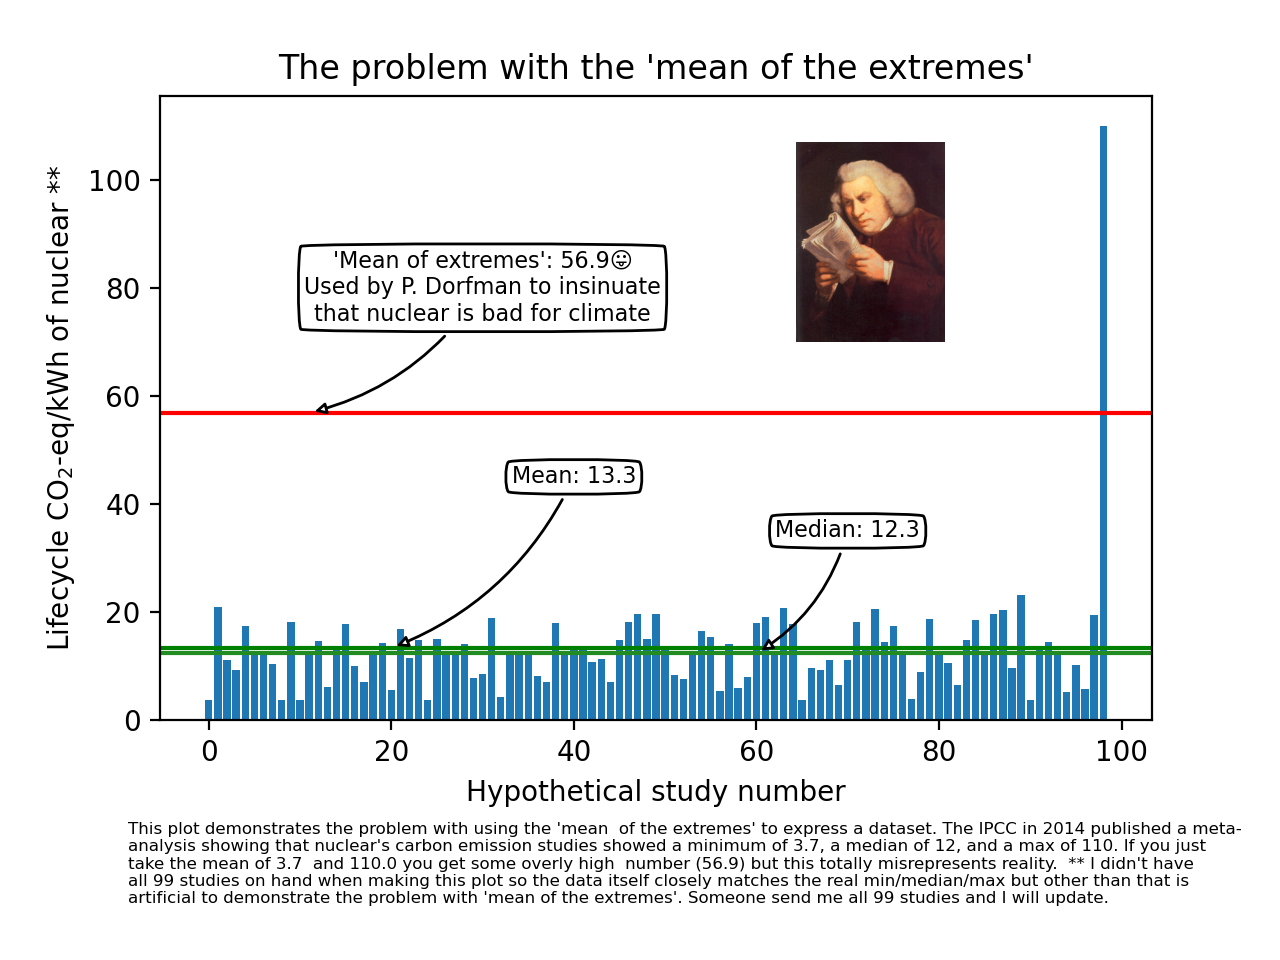
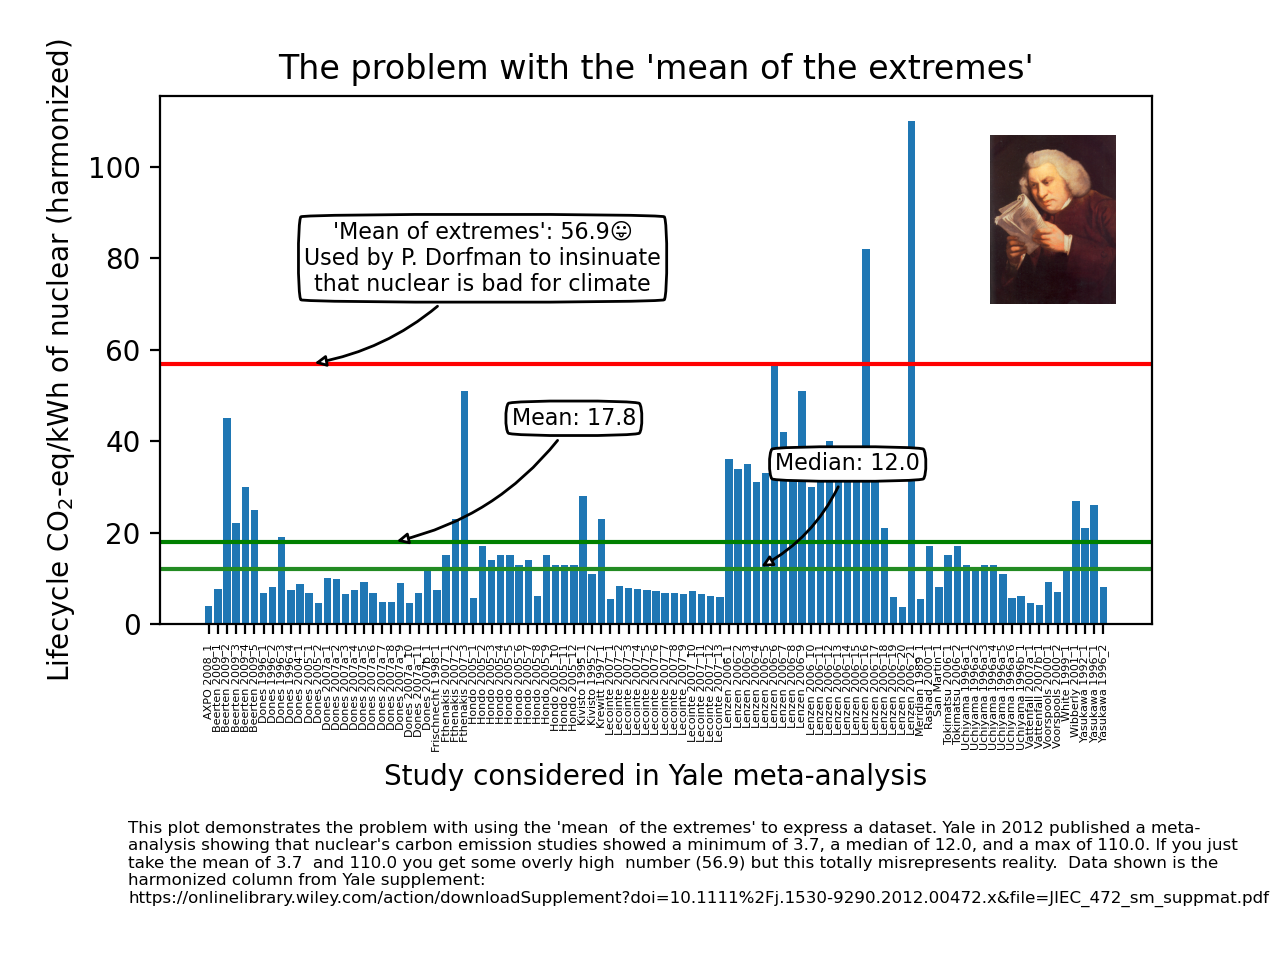
Updated mean of extremes example with actual data
Data comes from supplemental data table here:

https://onlinelibrary.wiley.com/action/downloadSupplement?doi=10.1111%2Fj.1530-9290.2012.00472.x&file=JIEC_472_sm_suppmat.pdf

which is associated with the main paper: https://doi.org/10.1111/j.1530-9290.2012.00472.x

Changed region(s): [[0.0312, 0.0312, 0.9688, 0.9375]]

diff --git a/plots/mean-of-extremes/mean-of-extremes.py b/plots/mean-of-extremes/mean-of-extremes.py
@@ -3,91 +3,124 @@ import matplotlib.pyplot as plt
 
 import numpy as np
 
-bounds = [3.7, 12,110]
 
-mu, sigma = bounds[1], 5
+def generateData():
+    bounds = [3.7, 12,110]
 
-vals = [bounds[0]]+ list(np.random.normal(mu,sigma, 97)) + [bounds[2]]
+    mu, sigma = bounds[1], 5
 
-vals = [bounds[0] if v<bounds[0] else v for v in vals]
-vals = [bounds[2] if v>bounds[2] else v for v in vals]
+    vals = [bounds[0]]+ list(np.random.normal(mu,sigma, 97)) + [bounds[2]]
 
-mean = np.mean(vals)
-median = np.median(vals)
-mean_extreme =( min(vals) + max(vals)) /2.0
+    vals = [bounds[0] if v<bounds[0] else v for v in vals]
+    vals = [bounds[2] if v>bounds[2] else v for v in vals]
+    
+    return range(len(vals)), vals
 
-fig, ax = plt.subplots(dpi=200)
+def plot(labels, vals):
 
-ax.bar(range(len(vals)), vals)
+    maxData = max(vals)
+    minData = min(vals)
 
-ax.axhline(y=mean, color="green")
-ax.axhline(y=median, color="forestgreen")
-ax.axhline(y=mean_extreme, color="red")
+    mean = np.mean(vals)
+    median = np.median(vals)
+    mean_extreme =( min(vals) + max(vals)) /2.0
 
-# Point out nuclear
-ann = ax.annotate(f"'Mean of extremes': {mean_extreme:.1f}😛\nUsed by P. Dorfman to insinuate\nthat nuclear "
-                "is bad for climate",
-              xy=(11, mean_extreme), xycoords='data',
-              xytext=(30, 80), textcoords='data',
-              size=8, va="center", ha="center",
-              bbox=dict(boxstyle="round4", fc="w"),
-              arrowprops=dict(arrowstyle="-|>",
-                              connectionstyle="arc3,rad=-0.2",
-                              fc="w"),
-              )
+    fig, ax = plt.subplots(dpi=200)
 
-ann = ax.annotate(f"Mean: {mean:.1f}",
-              xy=(20, mean), xycoords='data',
-              xytext=(40, 45), textcoords='data',
-              size=8, va="center", ha="center",
-              bbox=dict(boxstyle="round4", fc="w"),
-              arrowprops=dict(arrowstyle="-|>",
-                              connectionstyle="arc3,rad=-0.2",
-                              fc="w"),
-              )
+    ax.bar(range(len(vals)), vals)
+    ax.set_xticks(range(len(labels)))
+    ax.set_xticklabels(labels, size=4, rotation='vertical')
 
-ann = ax.annotate(f"Median: {median:.1f}",
-              xy=(60, median), xycoords='data',
-              xytext=(70, 35), textcoords='data',
-              size=8, va="center", ha="center",
-              bbox=dict(boxstyle="round4", fc="w"),
-              arrowprops=dict(arrowstyle="-|>",
-                              connectionstyle="arc3,rad=-0.2",
-                              fc="w"),
-              )
+    ax.axhline(y=mean, color="green")
+    ax.axhline(y=median, color="forestgreen")
+    ax.axhline(y=mean_extreme, color="red")
 
-ax.set_xlabel("Hypothetical study number")
-ax.set_ylabel(r"Lifecycle CO$_{2}$-eq/kWh of nuclear **")
+    # Point out nuclear
+    ann = ax.annotate(f"'Mean of extremes': {mean_extreme:.1f}😛\nUsed by P. Dorfman to insinuate\nthat nuclear "
+                    "is bad for climate",
+                  xy=(11, mean_extreme), xycoords='data',
+                  xytext=(30, 80), textcoords='data',
+                  size=8, va="center", ha="center",
+                  bbox=dict(boxstyle="round4", fc="w"),
+                  arrowprops=dict(arrowstyle="-|>",
+                                  connectionstyle="arc3,rad=-0.2",
+                                  fc="w"),
+                  )
 
-plt.title("The problem with the 'mean of the extremes'")
+    ann = ax.annotate(f"Mean: {mean:.1f}",
+                  xy=(20, mean), xycoords='data',
+                  xytext=(40, 45), textcoords='data',
+                  size=8, va="center", ha="center",
+                  bbox=dict(boxstyle="round4", fc="w"),
+                  arrowprops=dict(arrowstyle="-|>",
+                                  connectionstyle="arc3,rad=-0.2",
+                                  fc="w"),
+                  )
 
-msg = f"""This plot demonstrates the problem with using the 'mean 
-of the extremes' to express a dataset. The IPCC in 2014 published
+    ann = ax.annotate(f"Median: {median:.1f}",
+                  xy=(60, median), xycoords='data',
+                  xytext=(70, 35), textcoords='data',
+                  size=8, va="center", ha="center",
+                  bbox=dict(boxstyle="round4", fc="w"),
+                  arrowprops=dict(arrowstyle="-|>",
+                                  connectionstyle="arc3,rad=-0.2",
+                                  fc="w"),
+                  )
+
+    ax.set_xlabel("Study considered in Yale meta-analysis")
+    ax.set_ylabel(r"Lifecycle CO$_{2}$-eq/kWh of nuclear (harmonized)")
+
+    plt.title("The problem with the 'mean of the extremes'")
+
+    msg = f"""This plot demonstrates the problem with using the 'mean 
+of the extremes' to express a dataset. Yale in 2012 published
 a meta-analysis showing that nuclear's carbon emission studies showed
-a minimum of {bounds[0]}, a median of {bounds[1]}, and a max of {bounds[2]}. If you just
-take the mean of {bounds[0]:.1f}  and {bounds[2]:.1f} you get some overly high 
+a minimum of {minData}, a median of {median}, and a max of {maxData}. If you just
+take the mean of {minData:.1f}  and {maxData:.1f} you get some overly high 
 number ({mean_extreme:.1f}) but this totally misrepresents reality.
 
-** I didn't have all 99 studies on hand when making this plot so the data itself
-closely matches the real min/median/max but other than that is artificial to demonstrate
-the problem with 'mean of the extremes'. Someone send me all 99 studies and I
-will update. 
-"""
-fig.subplots_adjust(bottom=0.25,top=0.90)
-ann = ax.text(0.1, 0.1, '\n'.join(textwrap.wrap(msg,130)),
-              size=6, va="center", ha="left", transform=fig.transFigure
-              )
+Data shown is the harmonized column from Yale supplement: https://onlinelibrary.wiley.com/action/downloadSupplement?doi=10.1111%2Fj.1530-9290.2012.00472.x&file=JIEC_472_sm_suppmat.pdf
+
+    """
+    fig.subplots_adjust(bottom=0.35,top=0.90)
+    ann = ax.text(0.1, 0.1, '\n'.join(textwrap.wrap(msg,130)),
+                  size=6, va="center", ha="left", transform=fig.transFigure
+                  )
 
 
-# read image file
-with open('huh.png', 'rb') as f:
-    img = plt.imread(f, format='png')
+    # read image file
+    with open('huh.png', 'rb') as f:
+        img = plt.imread(f, format='png')
 
-# Draw image
-axin = ax.inset_axes([60,70,25,37],transform=ax.transData)    # create new inset axes in data coordinates
-axin.imshow(img)
-axin.axis('off')
+    # Draw image
+    axin = ax.inset_axes([80,70,25,37],transform=ax.transData)    # create new inset axes in data coordinates
+    axin.imshow(img)
+    axin.axis('off')
 
 
-#plt.show()
-plt.savefig('dorfman.png')
+    #plt.show()
+    plt.savefig('dorfman.png')
+
+def readFile():
+    studies = read()
+    labels = list(studies.keys())
+    vals = list(studies.values())
+    return labels, vals
+
+def read():
+    # read data table from https://onlinelibrary.wiley.com/action/downloadSupplement?doi=10.1111%2Fj.1530-9290.2012.00472.x&file=JIEC_472_sm_suppmat.pdf
+    studies = {}
+    counts={}
+    with open("yale-nuclear-co2-table.txt") as f:
+        for line in f:
+            vals = line.split()
+            baselabel = ' '.join(vals[:2])
+            count = counts.get(baselabel,0) +1
+            label = f"{baselabel}_{count}"
+            counts[baselabel]=count
+            studies[label] = float(vals[9])
+    return studies
+
+if __name__=="__main__":
+    labels, vals = readFile()
+    plot(labels, vals)
